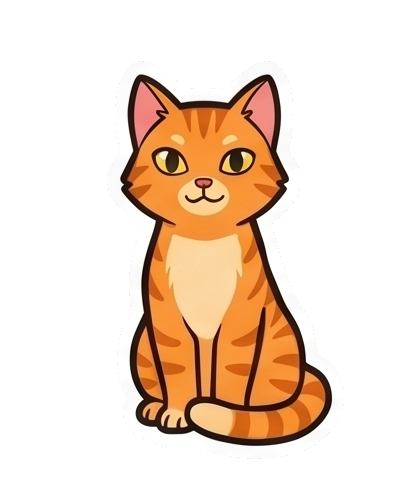
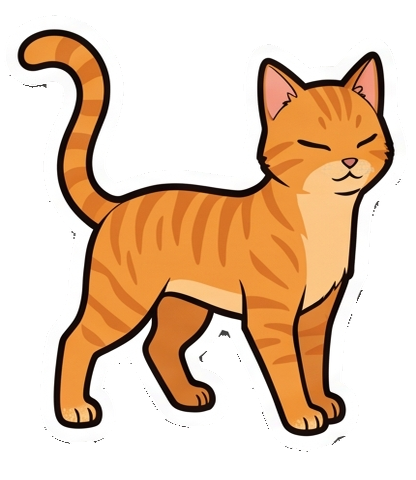
feat: replace sprite frames with dynamic-pose cats + 4-frame animations
New sprite sheet (3 growth stages × 6 poses, bbox-detected crop):
  kitten: sitting poses — idle, blink, approach bowl, eating, groom, lick
  adult:  standing poses — idle, blink, approach bowl, eating, groom, lick
  elder:  standing/walking — idle, blink, approach bowl, eating, groom
  (elder groom_2/3 fallback from adult; faded originals skipped)

Key improvements over previous sheet:
  • Adult/elder cats now STAND rather than sit — visible growth progression
  • eat_1 = cat walking toward bowl (anticipation frame!)
  • eat_2 = cat eating (head down at bowl)
  • groom_2 = paw rubbing face (second groom phase)

FRAME_SEQUENCES updated:
  eat:   ['eat_1','eat_2','eat_2','eat_1'] fps:2 — full approach+retreat arc
  groom: ['groom_1','groom_2','groom_2','groom_1'] fps:1.5 — natural lick cycle

VARIANT_FRAMES expanded: eat_1, eat_2, groom_2, groom_3 now stage-aware

diff --git a/components/Cat/CatCharacter.jsx b/components/Cat/CatCharacter.jsx
@@ -11,7 +11,13 @@ const VARIANT_FOLDERS = ['kitten', 'kitten', 'adult', 'adult', 'elder', 'elder']
 //                        stage 0   stage 1  stage 2  stage 3  stage 4  stage 5
 
 // Frames that exist in variant folders (stage-specific art)
-const VARIANT_FRAMES = new Set(['idle_1', 'idle_2', 'eat_1', 'groom_1', 'sad_1', 'sad_2', 'stretch_1'])
+const VARIANT_FRAMES = new Set([
+  'idle_1', 'idle_2',               // idle
+  'eat_1',  'eat_2',                // eat: approach → eating
+  'groom_1','groom_2','groom_3',    // groom: paw up → paw on face → licking
+  'sad_1',  'sad_2',                // sad state idle
+  'stretch_1',                      // stretch ambient
+])
 
 // ── Display size per stage ────────────────────────────────────────────────────
 const DISPLAY_SIZE = [90, 108, 128, 150, 168, 188]
@@ -34,17 +40,17 @@ const ANIM_SPEECH = {
 
 // ── PNG frame sequences ───────────────────────────────────────────────────────
 const FRAME_SEQUENCES = {
-  // Core (same for all stages — original detailed sprites)
-  eat:      { frames: ['eat_1', 'eat_2', 'eat_3', 'eat_4'],         fps: 3   },
+  // Core reactions — same art for all stages (original detailed sprites)
   purr:     { frames: ['purr_1', 'purr_2', 'purr_3'],               fps: 3   },
   headbutt: { frames: ['headbutt_1', 'headbutt_2', 'headbutt_3'],   fps: 5   },
   nuzzle:   { frames: ['nuzzle_2', 'nuzzle_2'],                     fps: 2   },
   knead:    { frames: ['knead_1', 'knead_2', 'knead_3', 'knead_2'], fps: 3   },
-  // Variant-aware (use kitten/adult/elder art)
-  idle:     { frames: ['idle_1', 'idle_2'],                         fps: 1   },
-  groom:    { frames: ['groom_1'],                                   fps: 1   },
-  sad:      { frames: ['sad_1', 'sad_2'],                           fps: 0.8 },
-  stretch:  { frames: ['stretch_1'],                                 fps: 1   },
+  // Variant-aware — kitten/adult/elder have their own art
+  idle:     { frames: ['idle_1', 'idle_2'],                          fps: 1   },
+  eat:      { frames: ['eat_1', 'eat_2', 'eat_2', 'eat_1'],         fps: 2   }, // approach → eat → eat → retreat
+  groom:    { frames: ['groom_1', 'groom_2', 'groom_2', 'groom_1'], fps: 1.5 }, // paw up → lick → lick → down
+  sad:      { frames: ['sad_1', 'sad_2'],                            fps: 0.8 },
+  stretch:  { frames: ['stretch_1'],                                  fps: 1   },
 }
 
 // ── CSS-only animations (no PNG frames needed) ────────────────────────────────
